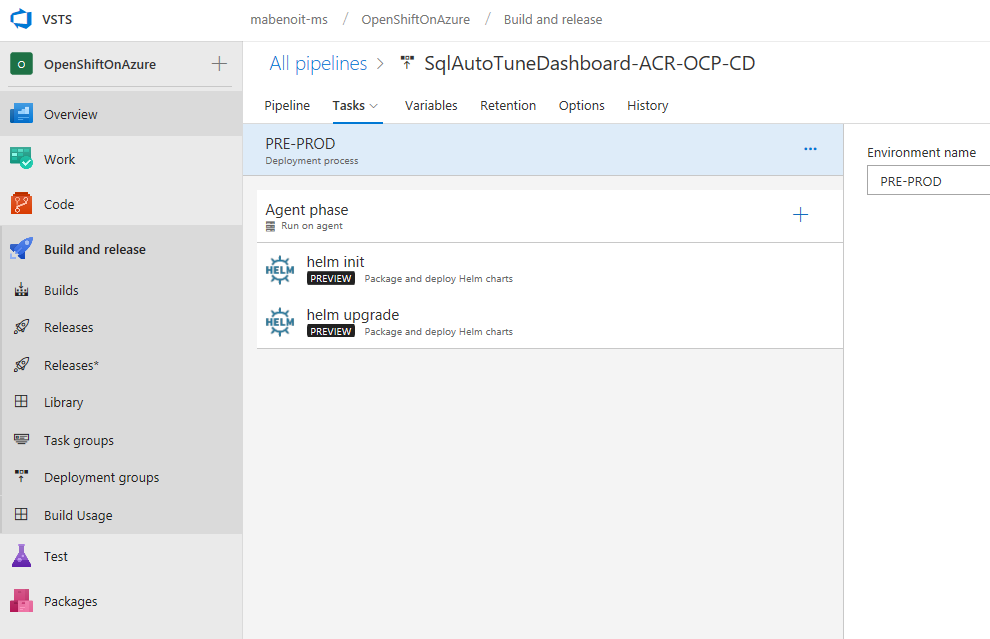
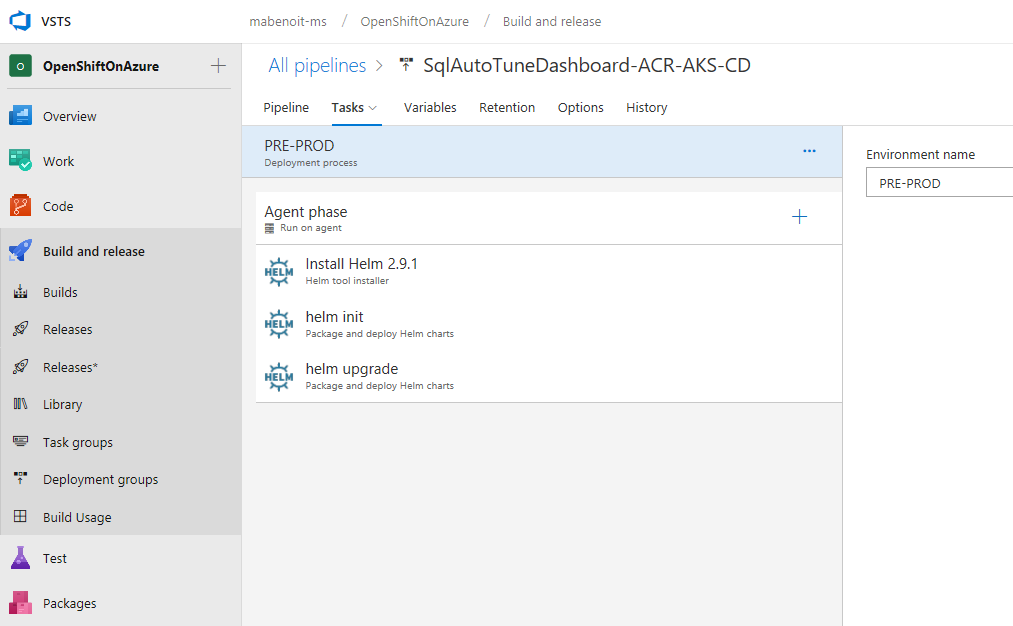
Install Helm steps in CD

diff --git a/README.md b/README.md
@@ -189,6 +189,7 @@ High level steps:
 - Docker - Push Web image
 - Docker - Build Sql image
 - Docker - Push Sql image
+- Install Helm
 - Helm - init --client-only
 - Helm - package
 - Publish Helm chart as Artifact
@@ -242,6 +243,9 @@ Variables:
 - SqlPassword = your-sql-password
 
 High level steps:
+- Install Helm 2.9.1
+  - Helm Version Spec = `2.9.1`
+  - Check for latest version of Helm = `true`
 - Helm - init
   - Command = `init`
   - Upgrade Tiller = `true`
